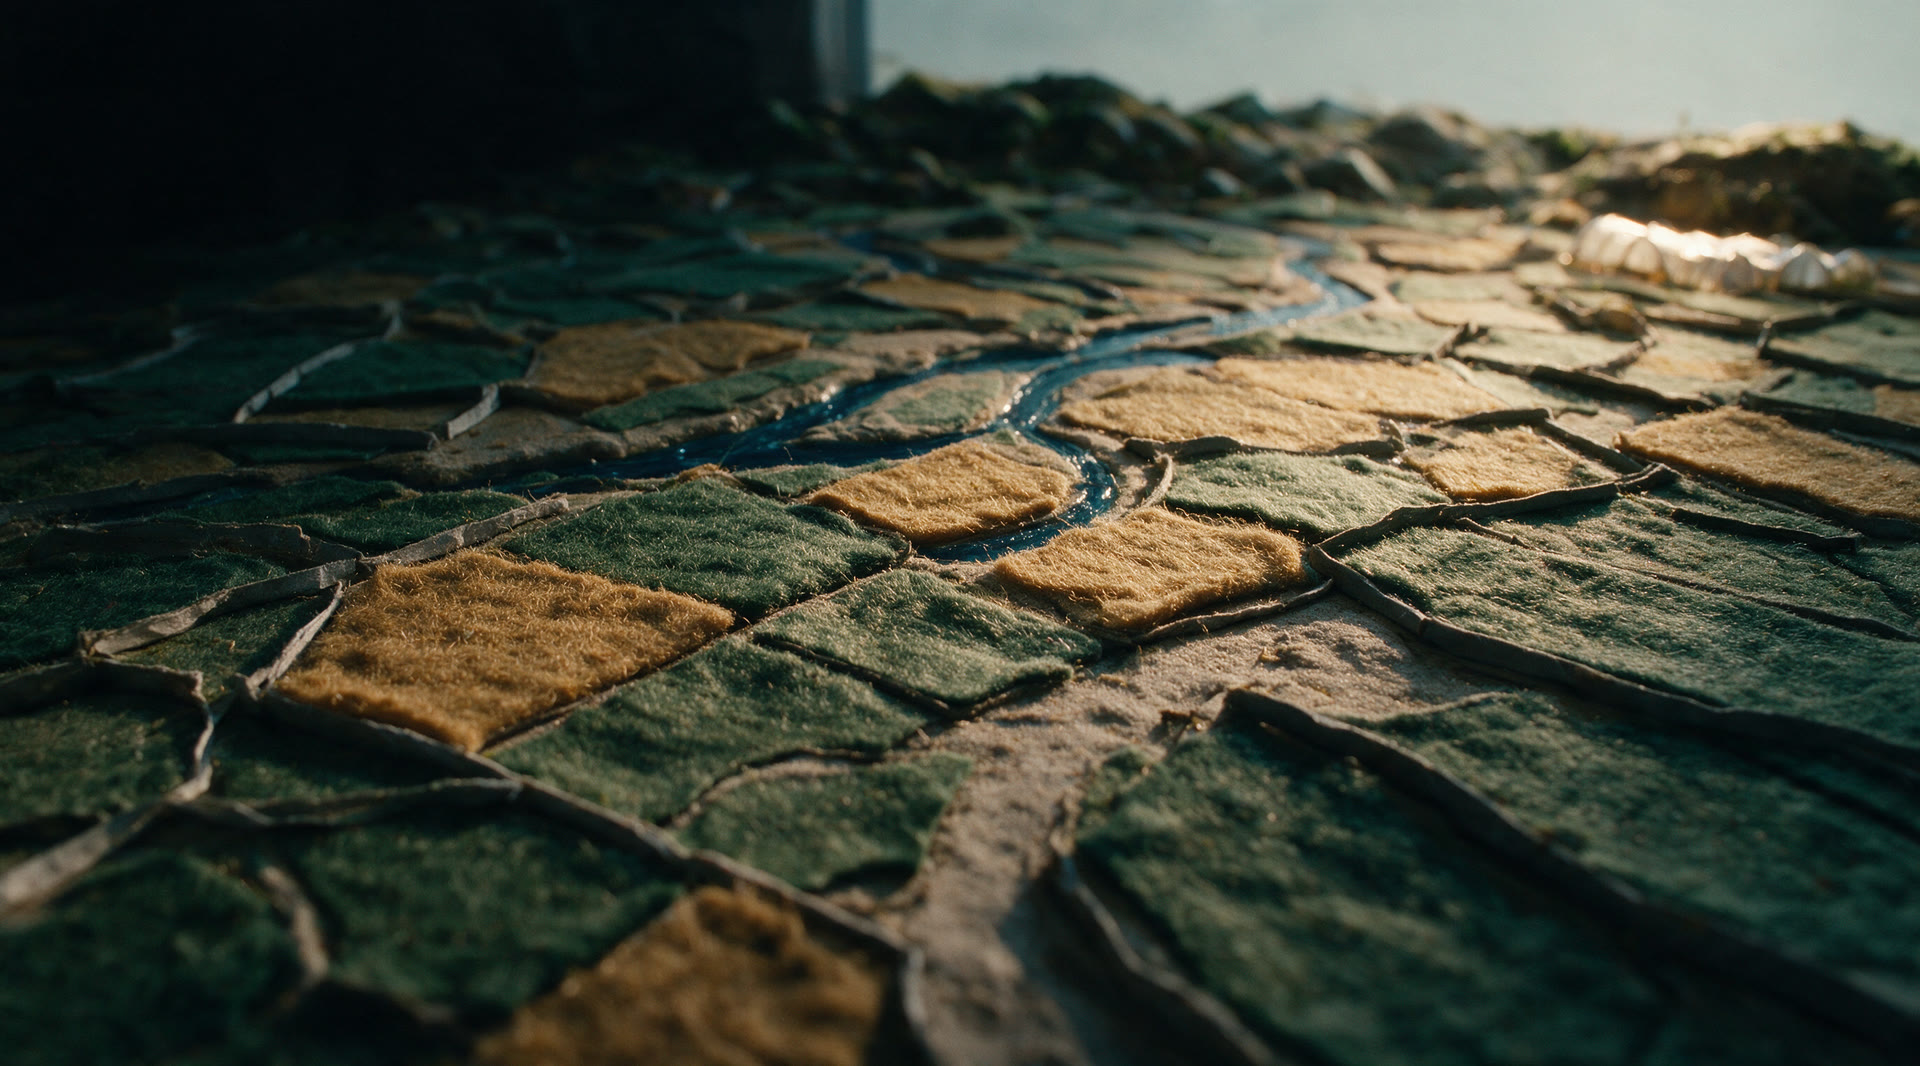
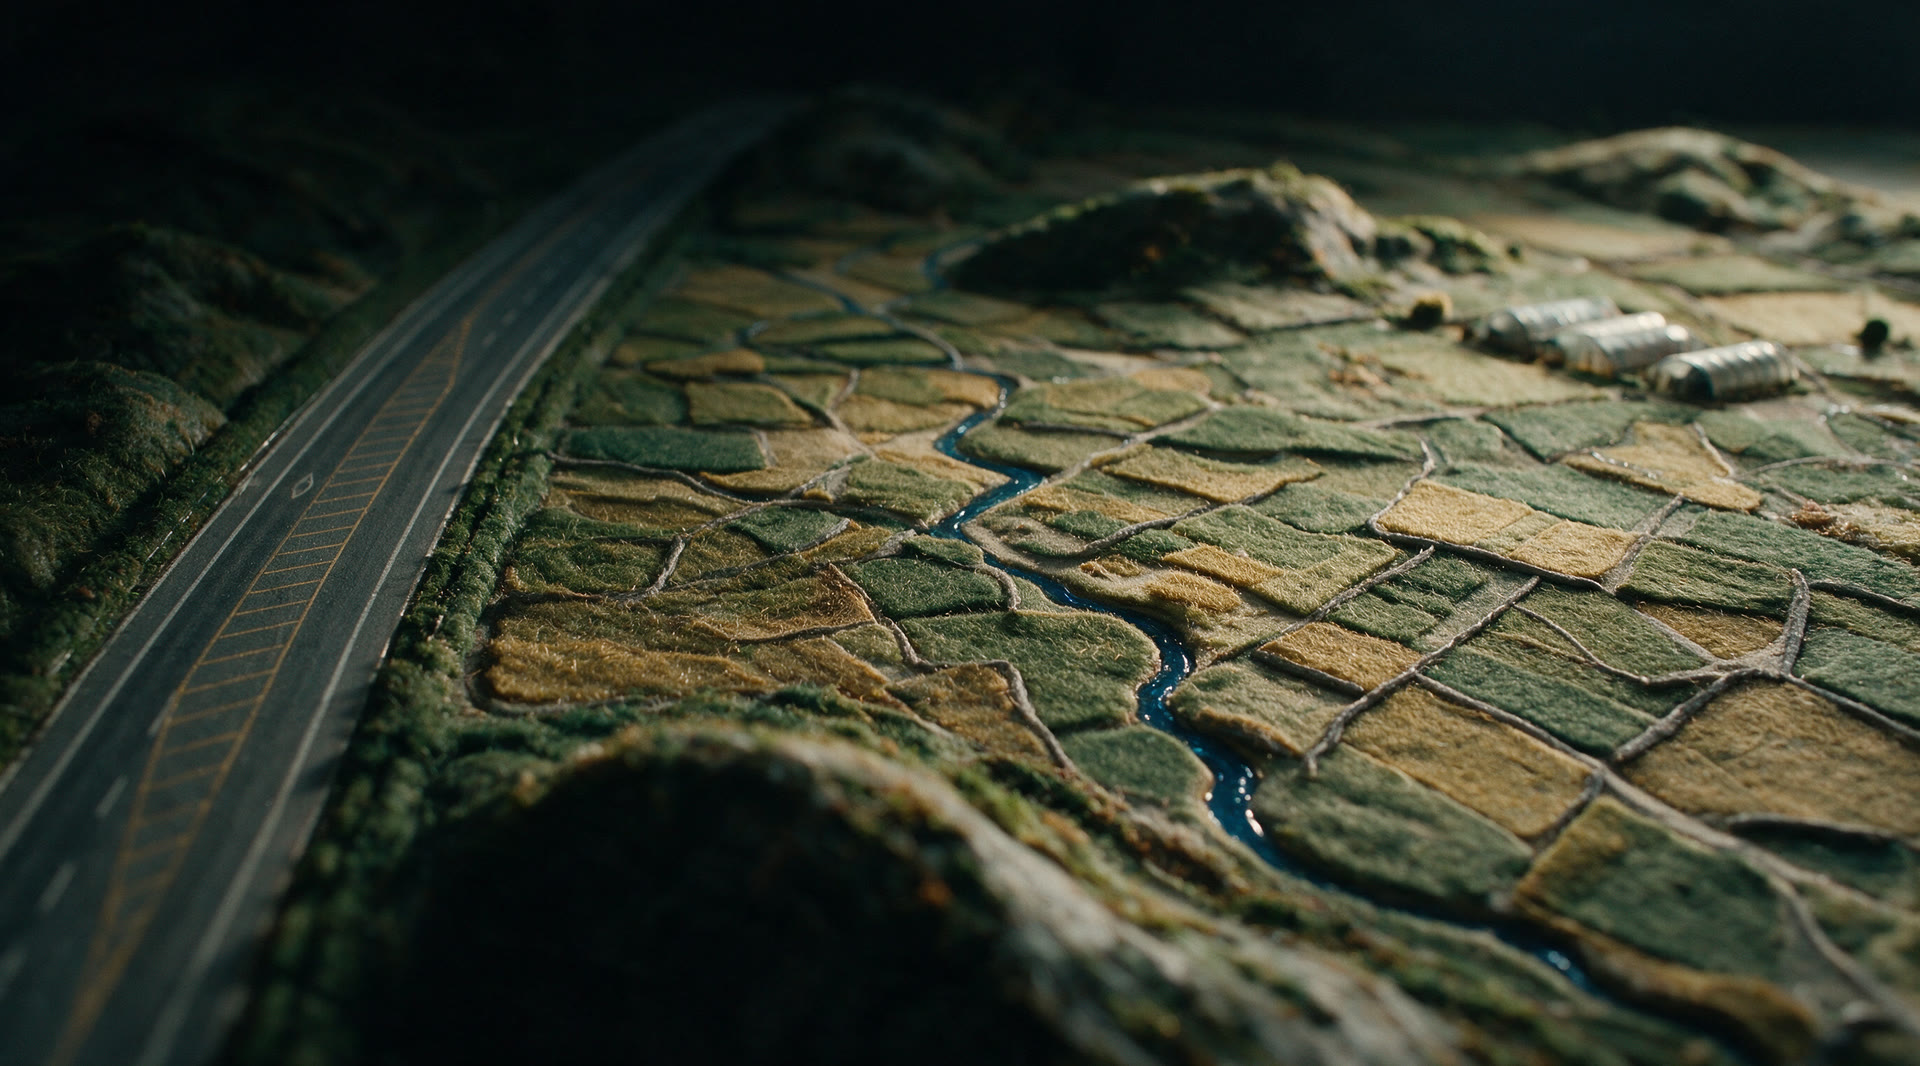
feat(kie): 앵커 rev.3d — A05 회색 판 제거 리롤 + A06b 고고도 중간 앵커, leg 4·6 모션 프롬프트 개정
- A05: 상단 "dark and empty — no wall/panel/backdrop/furniture" 문장 + negative 8항 추가, 1회 리롤 (구본 A05.v3b.*). 판·기둥 제거 성공, 좌측 도로 환각 1건 — 재롤 없이 보고.
- A06b: A06→A07 사이 신규 앵커 (곡률·헤이즈·코발트 바다 시작, 프롭 0), ref A06+A07, 1회 생성.
- 모션: A04→A05 군락 우측 멀리 작게 유지 / A06→A06b 수직 상승만 / A06b→A07 남동 활강+완만 하강.
- 스틸 2장 29 크레딧 (상한 30), 영상 0. 원장 세션 rev3d, 시트 anchors-v3d-sheet.jpg, 갤러리 13장, md §9.

Claude-Session: https://claude.ai/code/session_01WM9MJXSpdbCfwY8af3obk9

diff --git a/landxi/proto/film/anchors.html b/landxi/proto/film/anchors.html
@@ -1,4 +1,4 @@
 <!doctype html><html lang="ko"><head><meta charset="utf-8"><title>앵커 스틸 v3</title>
 <style>body{margin:0;background:#010102;color:#ccc;font:14px/1.5 Pretendard,system-ui,sans-serif}h1{font-weight:500;font-size:16px;letter-spacing:.06em;padding:20px 24px;margin:0;border-bottom:1px solid #272727}
 .g{display:grid;grid-template-columns:repeat(auto-fill,minmax(440px,1fr));gap:24px;padding:24px}figure{margin:0}img{width:100%;display:block;border:1px solid #272727}figcaption{padding:8px 2px;font-size:12px;color:#8a8a8a;letter-spacing:.04em}</style></head>
-<body><h1>LAND-XI 필름 · 앵커 스틸 v3 rev.3 (12장, 2026-08-26) — 황동 링 A01·A02·A12 한정 / A02 소품 0 · A03 드론↓항공기↗ · A04 소품 0</h1><div class="g"><figure><img src="../../assets/proto/film/legs/anchors-v3/A01.jpg" loading="lazy"><figcaption>A01 모형 지구본 — 작업대 직치, 링 상단 위성</figcaption></figure><figure><img src="../../assets/proto/film/legs/anchors-v3/A02.jpg" loading="lazy"><figcaption>A02 고궤도·한반도 — 지구본 + 구름만, 항공기 없음 (rev.3)</figcaption></figure><figure><img src="../../assets/proto/film/legs/anchors-v3/A03.jpg" loading="lazy"><figcaption>A03 구름 천장 — 드론 하단 1/3 공중 부양·소, 항공기 우상단 (rev.3c, 1회 재생성)</figcaption></figure><figure><img src="../../assets/proto/film/legs/anchors-v3/A04.jpg" loading="lazy"><figcaption>A04 능선 너머 남원 분지 — 소품 0 (rev.3)</figcaption></figure><figure><img src="../../assets/proto/film/legs/anchors-v3/A05.jpg" loading="lazy"><figcaption>A05 남원 평야·농지이용 — 프롭 0</figcaption></figure><figure><img src="../../assets/proto/film/legs/anchors-v3/A06.jpg" loading="lazy"><figcaption>A06 금지면 비닐하우스 — 프롭 0</figcaption></figure><figure><img src="../../assets/proto/film/legs/anchors-v3/A07.jpg" loading="lazy"><figcaption>A07 지구본 이동→여수</figcaption></figure><figure><img src="../../assets/proto/film/legs/anchors-v3/A08.jpg" loading="lazy"><figcaption>A08 여수 국동항·해양쓰레기</figcaption></figure><figure><img src="../../assets/proto/film/legs/anchors-v3/A09.jpg" loading="lazy"><figcaption>A09 지구본 이동→울주</figcaption></figure><figure><img src="../../assets/proto/film/legs/anchors-v3/A10.jpg" loading="lazy"><figcaption>A10 산림식생·급경사지</figcaption></figure><figure><img src="../../assets/proto/film/legs/anchors-v3/A11.jpg" loading="lazy"><figcaption>A11 불법소각 — 산자락 소면적 공터, 연소 중</figcaption></figure><figure><img src="../../assets/proto/film/legs/anchors-v3/A12.jpg" loading="lazy"><figcaption>A12 국토 변화(데이터 관점) — 황동 격자·측정 셀 점등, 링·위성 복귀</figcaption></figure></div></body></html>
+<body><h1>LAND-XI 필름 · 앵커 스틸 v3 rev.3d (13장, 2026-08-27) — 황동 링 A01·A02·A12 한정 / A02 소품 0 · A03 드론↓항공기↗ · A04 소품 0</h1><div class="g"><figure><img src="../../assets/proto/film/legs/anchors-v3/A01.jpg" loading="lazy"><figcaption>A01 모형 지구본 — 작업대 직치, 링 상단 위성</figcaption></figure><figure><img src="../../assets/proto/film/legs/anchors-v3/A02.jpg" loading="lazy"><figcaption>A02 고궤도·한반도 — 지구본 + 구름만, 항공기 없음 (rev.3)</figcaption></figure><figure><img src="../../assets/proto/film/legs/anchors-v3/A03.jpg" loading="lazy"><figcaption>A03 구름 천장 — 드론 하단 1/3 공중 부양·소, 항공기 우상단 (rev.3c, 1회 재생성)</figcaption></figure><figure><img src="../../assets/proto/film/legs/anchors-v3/A04.jpg" loading="lazy"><figcaption>A04 능선 너머 남원 분지 — 소품 0 (rev.3)</figcaption></figure><figure><img src="../../assets/proto/film/legs/anchors-v3/A05.jpg" loading="lazy"><figcaption>A05 남원 평야·농지이용 — 프롭 0, 회색 판 제거 (rev.3d, 1회 리롤 · 좌측 도로 환각)</figcaption></figure><figure><img src="../../assets/proto/film/legs/anchors-v3/A06.jpg" loading="lazy"><figcaption>A06 금지면 비닐하우스 — 프롭 0</figcaption></figure><figure><img src="../../assets/proto/film/legs/anchors-v3/A06b.jpg" loading="lazy"><figcaption>A06b 남원 상공 고고도 — 곡률·헤이즈, 코발트 바다 우하 시작 (rev.3d 신규 중간 앵커)</figcaption></figure><figure><img src="../../assets/proto/film/legs/anchors-v3/A07.jpg" loading="lazy"><figcaption>A07 지구본 이동→여수</figcaption></figure><figure><img src="../../assets/proto/film/legs/anchors-v3/A08.jpg" loading="lazy"><figcaption>A08 여수 국동항·해양쓰레기</figcaption></figure><figure><img src="../../assets/proto/film/legs/anchors-v3/A09.jpg" loading="lazy"><figcaption>A09 지구본 이동→울주</figcaption></figure><figure><img src="../../assets/proto/film/legs/anchors-v3/A10.jpg" loading="lazy"><figcaption>A10 산림식생·급경사지</figcaption></figure><figure><img src="../../assets/proto/film/legs/anchors-v3/A11.jpg" loading="lazy"><figcaption>A11 불법소각 — 산자락 소면적 공터, 연소 중</figcaption></figure><figure><img src="../../assets/proto/film/legs/anchors-v3/A12.jpg" loading="lazy"><figcaption>A12 국토 변화(데이터 관점) — 황동 격자·측정 셀 점등, 링·위성 복귀</figcaption></figure></div></body></html>

diff --git a/docs/superpowers/proto/2026-08-26-anchors-v3.md b/docs/superpowers/proto/2026-08-26-anchors-v3.md
@@ -851,3 +851,45 @@ const ids = rest.filter((x, k) => !x.startsWith('--') && k !== ei0 + 1);  // ei0
 | A02/A04 연속성 | ○ | 솜구름 천장·좌측 코발트 바다·이끼/석고/사질 평야·코발트 강, 키 좌상 동일. A04 의 능선/펠트 평야로 자연스럽게 이어진다. |
 
 **종합 ○** — v3c 채택. 드론이 5% 까지 작아지진 않았으나 클라이언트 요구의 핵심(작게·공중·하단 1/3)을 충족. 추가 리롤 없음.
+
+## 9. 실행 기록 — 2026-08-27 rev.3d A05 리롤 + A06b 중간 앵커 (스틸 2장, 영상 0)
+
+클라이언트(verbatim): **"여유있다고. 너무 막 만들지말고 신중하게 가자"** → 스틸당 정확히 1회, 자동/수동 재시도 0, 상한 30. 잔액은 충전 후 10,004.5. 영상은 한 건도 돌리지 않았다. 배경은 `2026-08-27-kie-legs-4-6.md` — leg 5 에서 A05 우상단 회색 판이 나무 크레이트로 굳었고, leg 6 은 A06→A07 거리가 멀어 카메라 대신 지형이 모핑했다.
+
+### 9-1. 변경 (`tools/kie/anchors-v3.json`)
+
+| 항목 | 내용 |
+|---|---|
+| A05 still | 능선/지평선 문장 뒤에 추가: "Above that horizon the top of the frame stays dark and empty — no wall, no panel, no backdrop, no furniture." 나머지 verbatim. negative += `grey panel, wall, backdrop, board edge, crate, box, pillar, furniture`. 구 A05 는 `A05.v3b.*` 보존. |
+| A06b 신규 | A06 뒤 삽입, `A06.tail=A06b`, `A06b.tail=A07`. 같은 preamble·재질·키. 고고도(약 60°), 펠트 퀼트와 온실 군락이 아래-좌 멀리 작게, 지면이 모형 세계의 호로 굽기 시작, 지평선 따뜻한 헤이즈, 우하에 코발트 레진 바다 시작, 해안은 아직 멀리. 프롭 0. ref = A06.png(1순위) + A07.png. |
+| 모션 4개 | A04→A05 ("structures growing larger" 삭제 → 군락은 우측 멀리 작게 유지), A05→A06 변경 없음, A06→A06b (수직 상승만), A06b→A07 (남동 활강 + 완만 하강). 전문은 9-4. |
+| prop_rule | none += A06b. |
+
+### 9-2. 크레딧 (상한 30, `ANCHORS_V3_CAP=30`, 세션 `rev3d-2026-08-27`, 이전 원장 `anchors-v3-credits.rev3c.json`)
+
+| 앵커 | 잔액 전 → 후 | 과금 | ref | taskId | wall |
+|---|---|---:|---|---|---:|
+| A05 (리롤) | 10004.5 → 9990.0 | 14.5 | A04 + 남원 정사 3 | 80b758c9… | 95 s |
+| A06b (신규) | 9990.0 → 9975.5 | 14.5 | A06 + A07 | 0269b402… | 155 s |
+| **합계** | 10004.5 → 9975.5 | **29.0** / 30 | | | |
+
+원장 합계 = 실측 차액. 호출 2회, 재시도 0.
+
+### 9-3. 판정 (`shots/kie/anchors-v3d-sheet.jpg` — A05 구|신, A06, A06b, A07)
+
+| 앵커 | 판정 | 근거 |
+|---|:-:|---|
+| A05 신 | **△** | 회색 판·배경·기둥 **완전 제거** — 상단이 어둡고 비어 있다. 온실 군락은 우측 멀리 작게, 황동 후프 + 반투명 스킨. 좌하 능선·펠트 퀼트·코발트 강이 A04 와 같은 촬영으로 이어지고 A06 의 군락·강과도 맞는다. **결함 1**: 프롬프트에 없는 **노란 빗금 표시가 있는 아스팔트 도로**가 좌측 1/3 을 세로로 지나간다(A04 에는 없음). 규칙대로 재롤하지 않았다 — 채택 여부는 클라이언트 판단(한 장 14.5). 채택 시 leg 4 에서 도로가 좌측에서 자라 들어오고, leg 5 에서 좌측으로 빠진다. 재롤 시 negative += `road, highway, asphalt, road markings, tarmac`. |
+| A06b | **○** | A06 보다 **명백히 높다**. 지평선이 모형 세계의 호로 굽고 그 위에 따뜻한 헤이즈 띠, 상단은 어둡고 비어 있다. 우하에 코발트 바다가 들어오기 시작, 해안 능선은 우측 원경. 프롭 0, 판/벽 0. A06 과 같은 황동 후프 온실 블록·같은 펠트 퀼트, A07 과 같은 곡률·코발트·헤이즈. 유보: 군락이 "아래-좌 멀리 작게" 보다는 **중앙-좌에 중간 크기**(프레임 폭 약 20%)로 남았다 — leg 6a(A06→A06b) 는 상승으로 읽히기에 충분하고, leg 6b(A06b→A07) 는 군락이 좌하로 빠지며 바다가 넓어지는 순수 이동. |
+
+### 9-4. 모션 프롬프트 (verbatim, `anchors-v3.json`)
+
+- **A04→A05**: The quilt of green and ochre felt parcels stays filling the lower two thirds of the frame throughout, the river of cobalt resin stays running through the middle distance, the top of the frame stays open and empty, and the greenhouse cluster stays small and far on the right the whole time; the warm key holds from upper camera left. The camera glides slowly and steadily forward and down over the parcels in one smooth continuous move. Nothing enters or leaves the frame, nothing moves on the ground. One single continuous take, no cuts, no camera shake, no zoom snap. Slow, cinematic, controlled.
+- **A05→A06** (변경 없음): The greenhouse cluster stays in frame and growing throughout, its brass hoops and translucent skins catching the same warm key from upper camera left, and the top of the frame stays open and empty. The camera descends slowly and steadily toward the cluster in one smooth continuous move with a very slight lateral drift to the right, so the rows open up and the soft cotton-wool cloud shadow creeps along the far end of the cluster. Nothing enters or leaves the frame, nothing moves on the lanes. One single continuous take, no cuts, no camera shake, no zoom snap. Slow, cinematic, controlled.
+- **A06→A06b**: The felt-parcel quilt and the greenhouse cluster stay in frame throughout, the top of the frame stays open and empty; the warm key holds from upper camera left. The camera rises in one smooth continuous climb, altitude only increases, the quilt and the cluster shrink away below-left, the ground curls into the arc of a model world, warm haze at the horizon. Nothing enters or leaves the frame, nothing moves on the ground. One single continuous take, no cuts, no camera shake, no zoom snap. Slow, cinematic, controlled.
+- **A06b→A07**: The curved surface of the model world stays in frame throughout, the top of the frame stays open and empty; the warm key holds from upper camera left. The camera slides south-east along the curved surface and descends gently, the cobalt sea widening beneath, moss headlands and a harbour with a long grey breakwater arm coming up ahead. Nothing enters or leaves the frame, nothing moves on the water. One single continuous take, no cuts, no camera shake, no zoom snap. Slow, cinematic, controlled.
+
+### 9-5. 다음
+
+- A05 도로 — 클라이언트 결정(채택 / 1회 재롤).
+- leg 4·5·6a·6b 영상은 별도 승인 후. 러너 `legs-v3.mjs` 는 앵커 배열 순서로 (A06→A06b, A06b→A07) 을 인접 쌍으로 잡도록 확인 필요(현재 13개 앵커).
